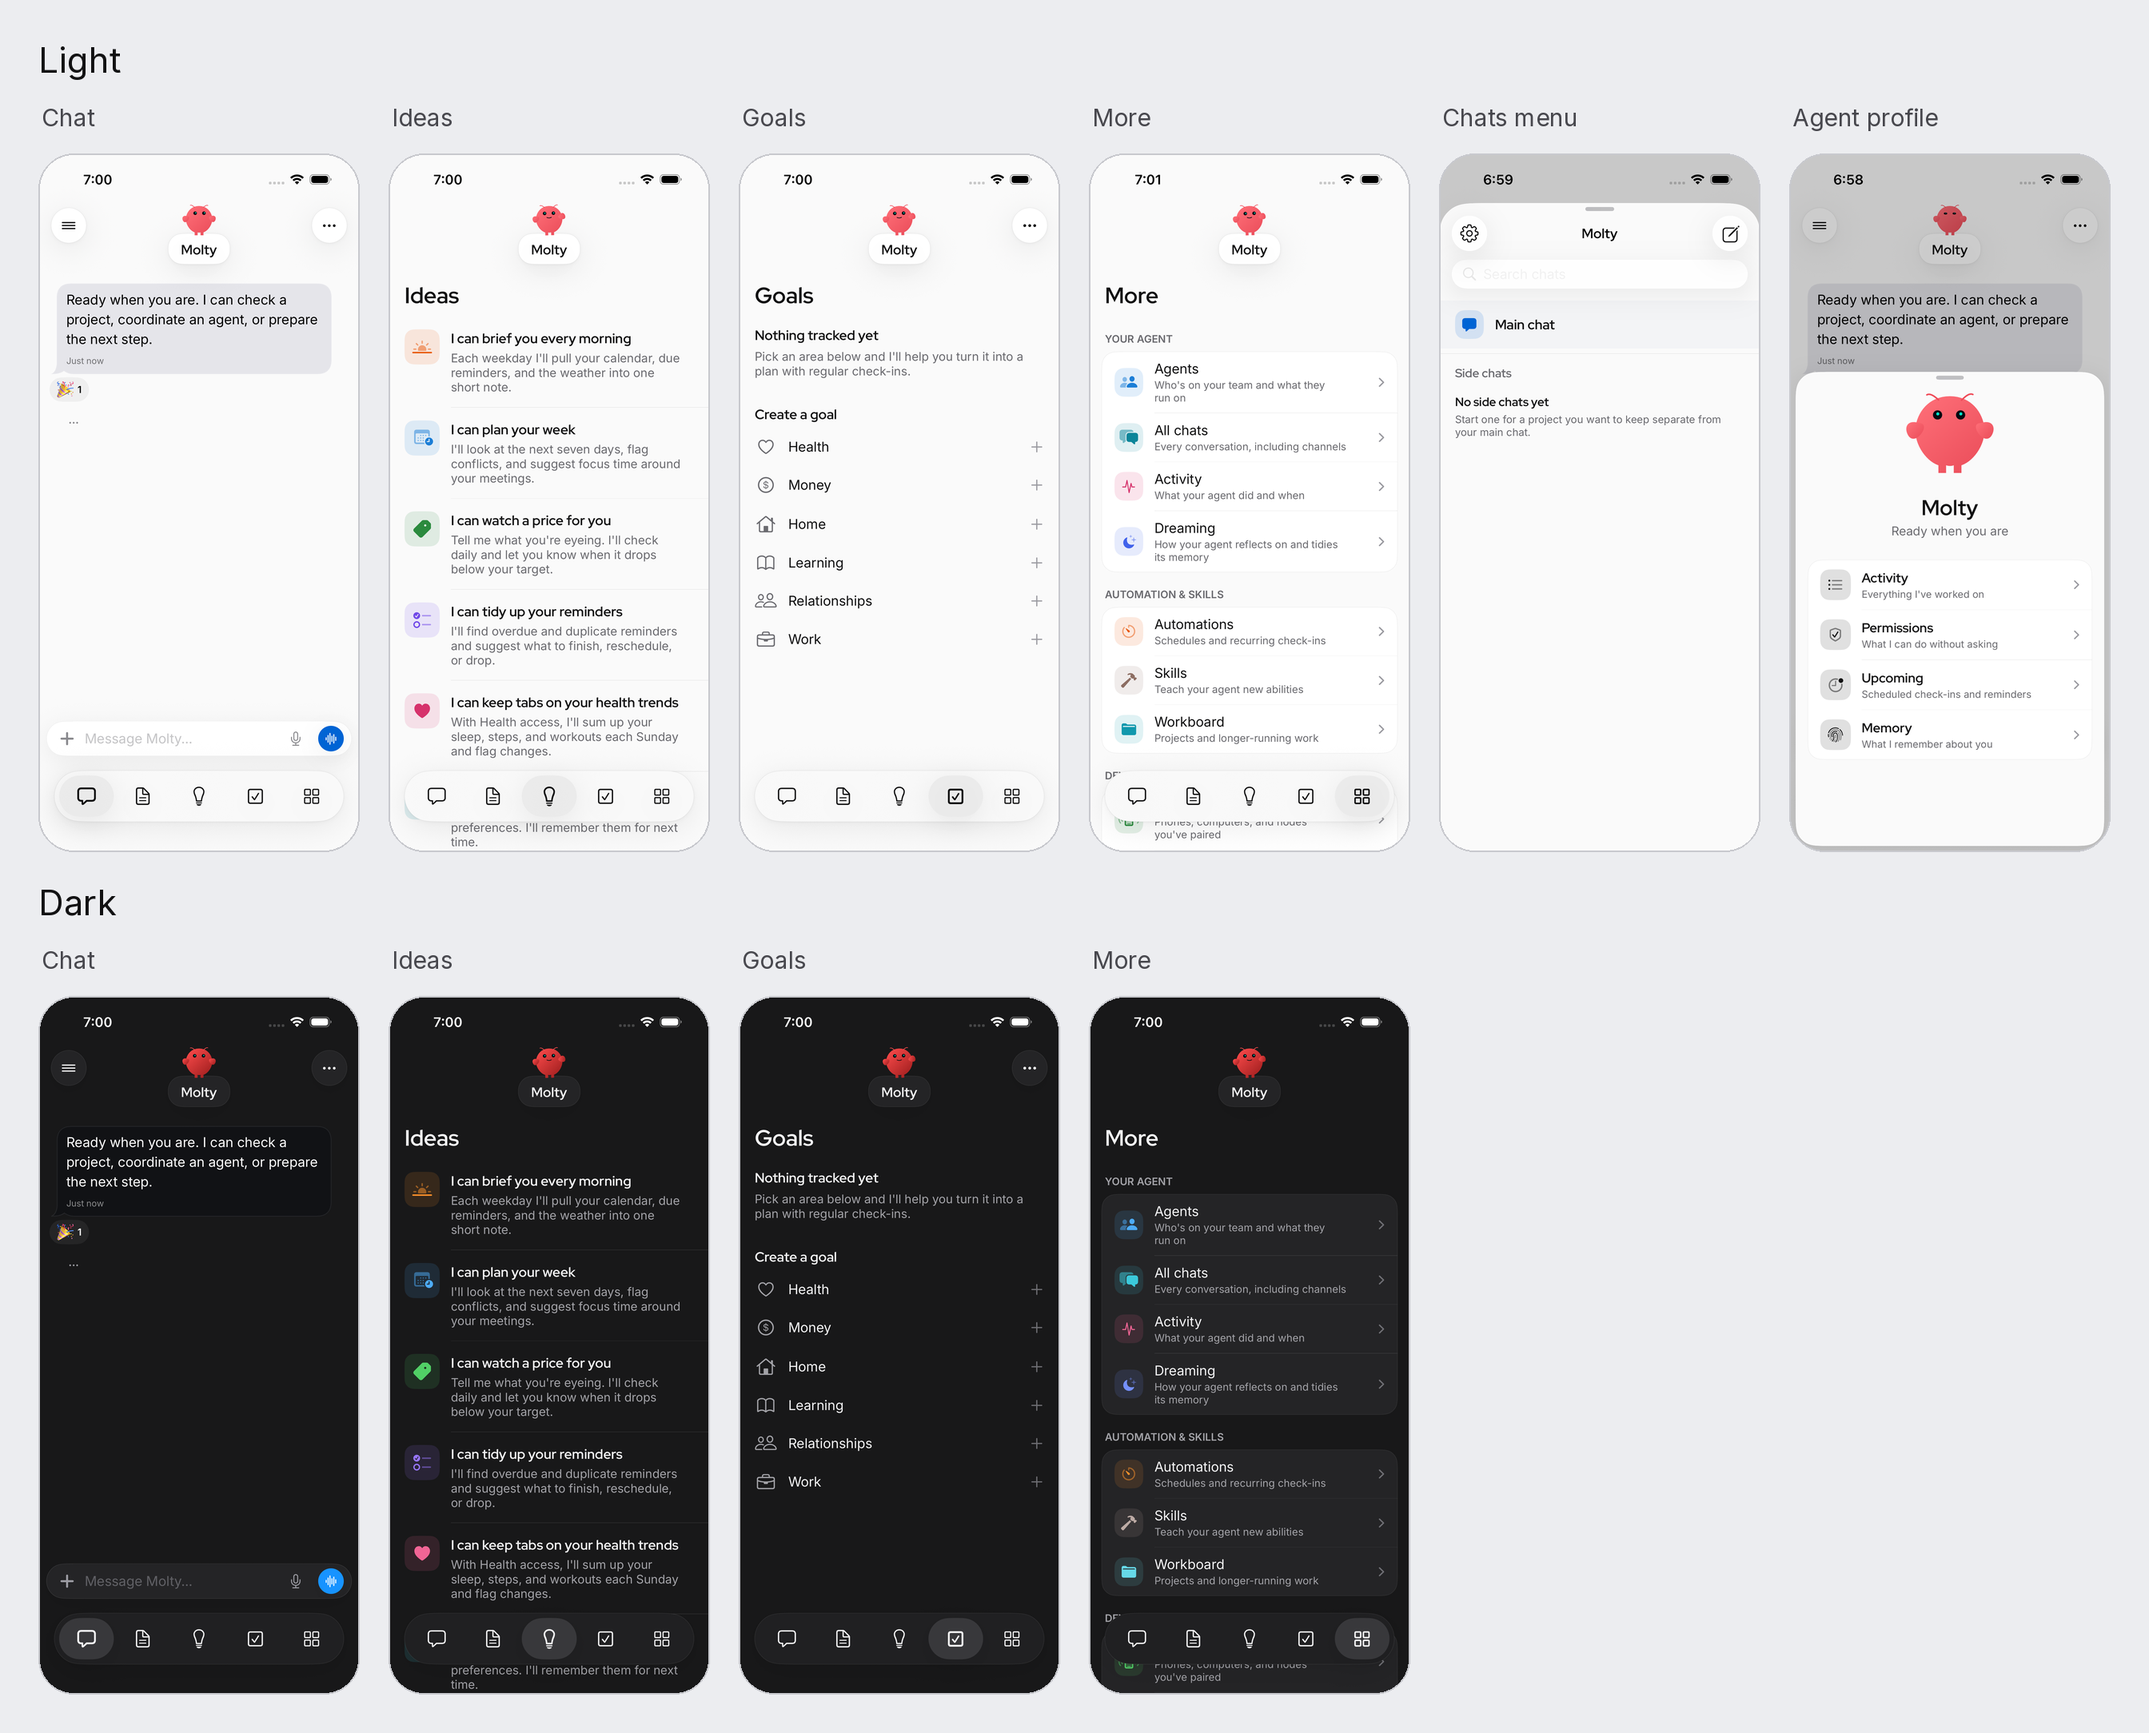
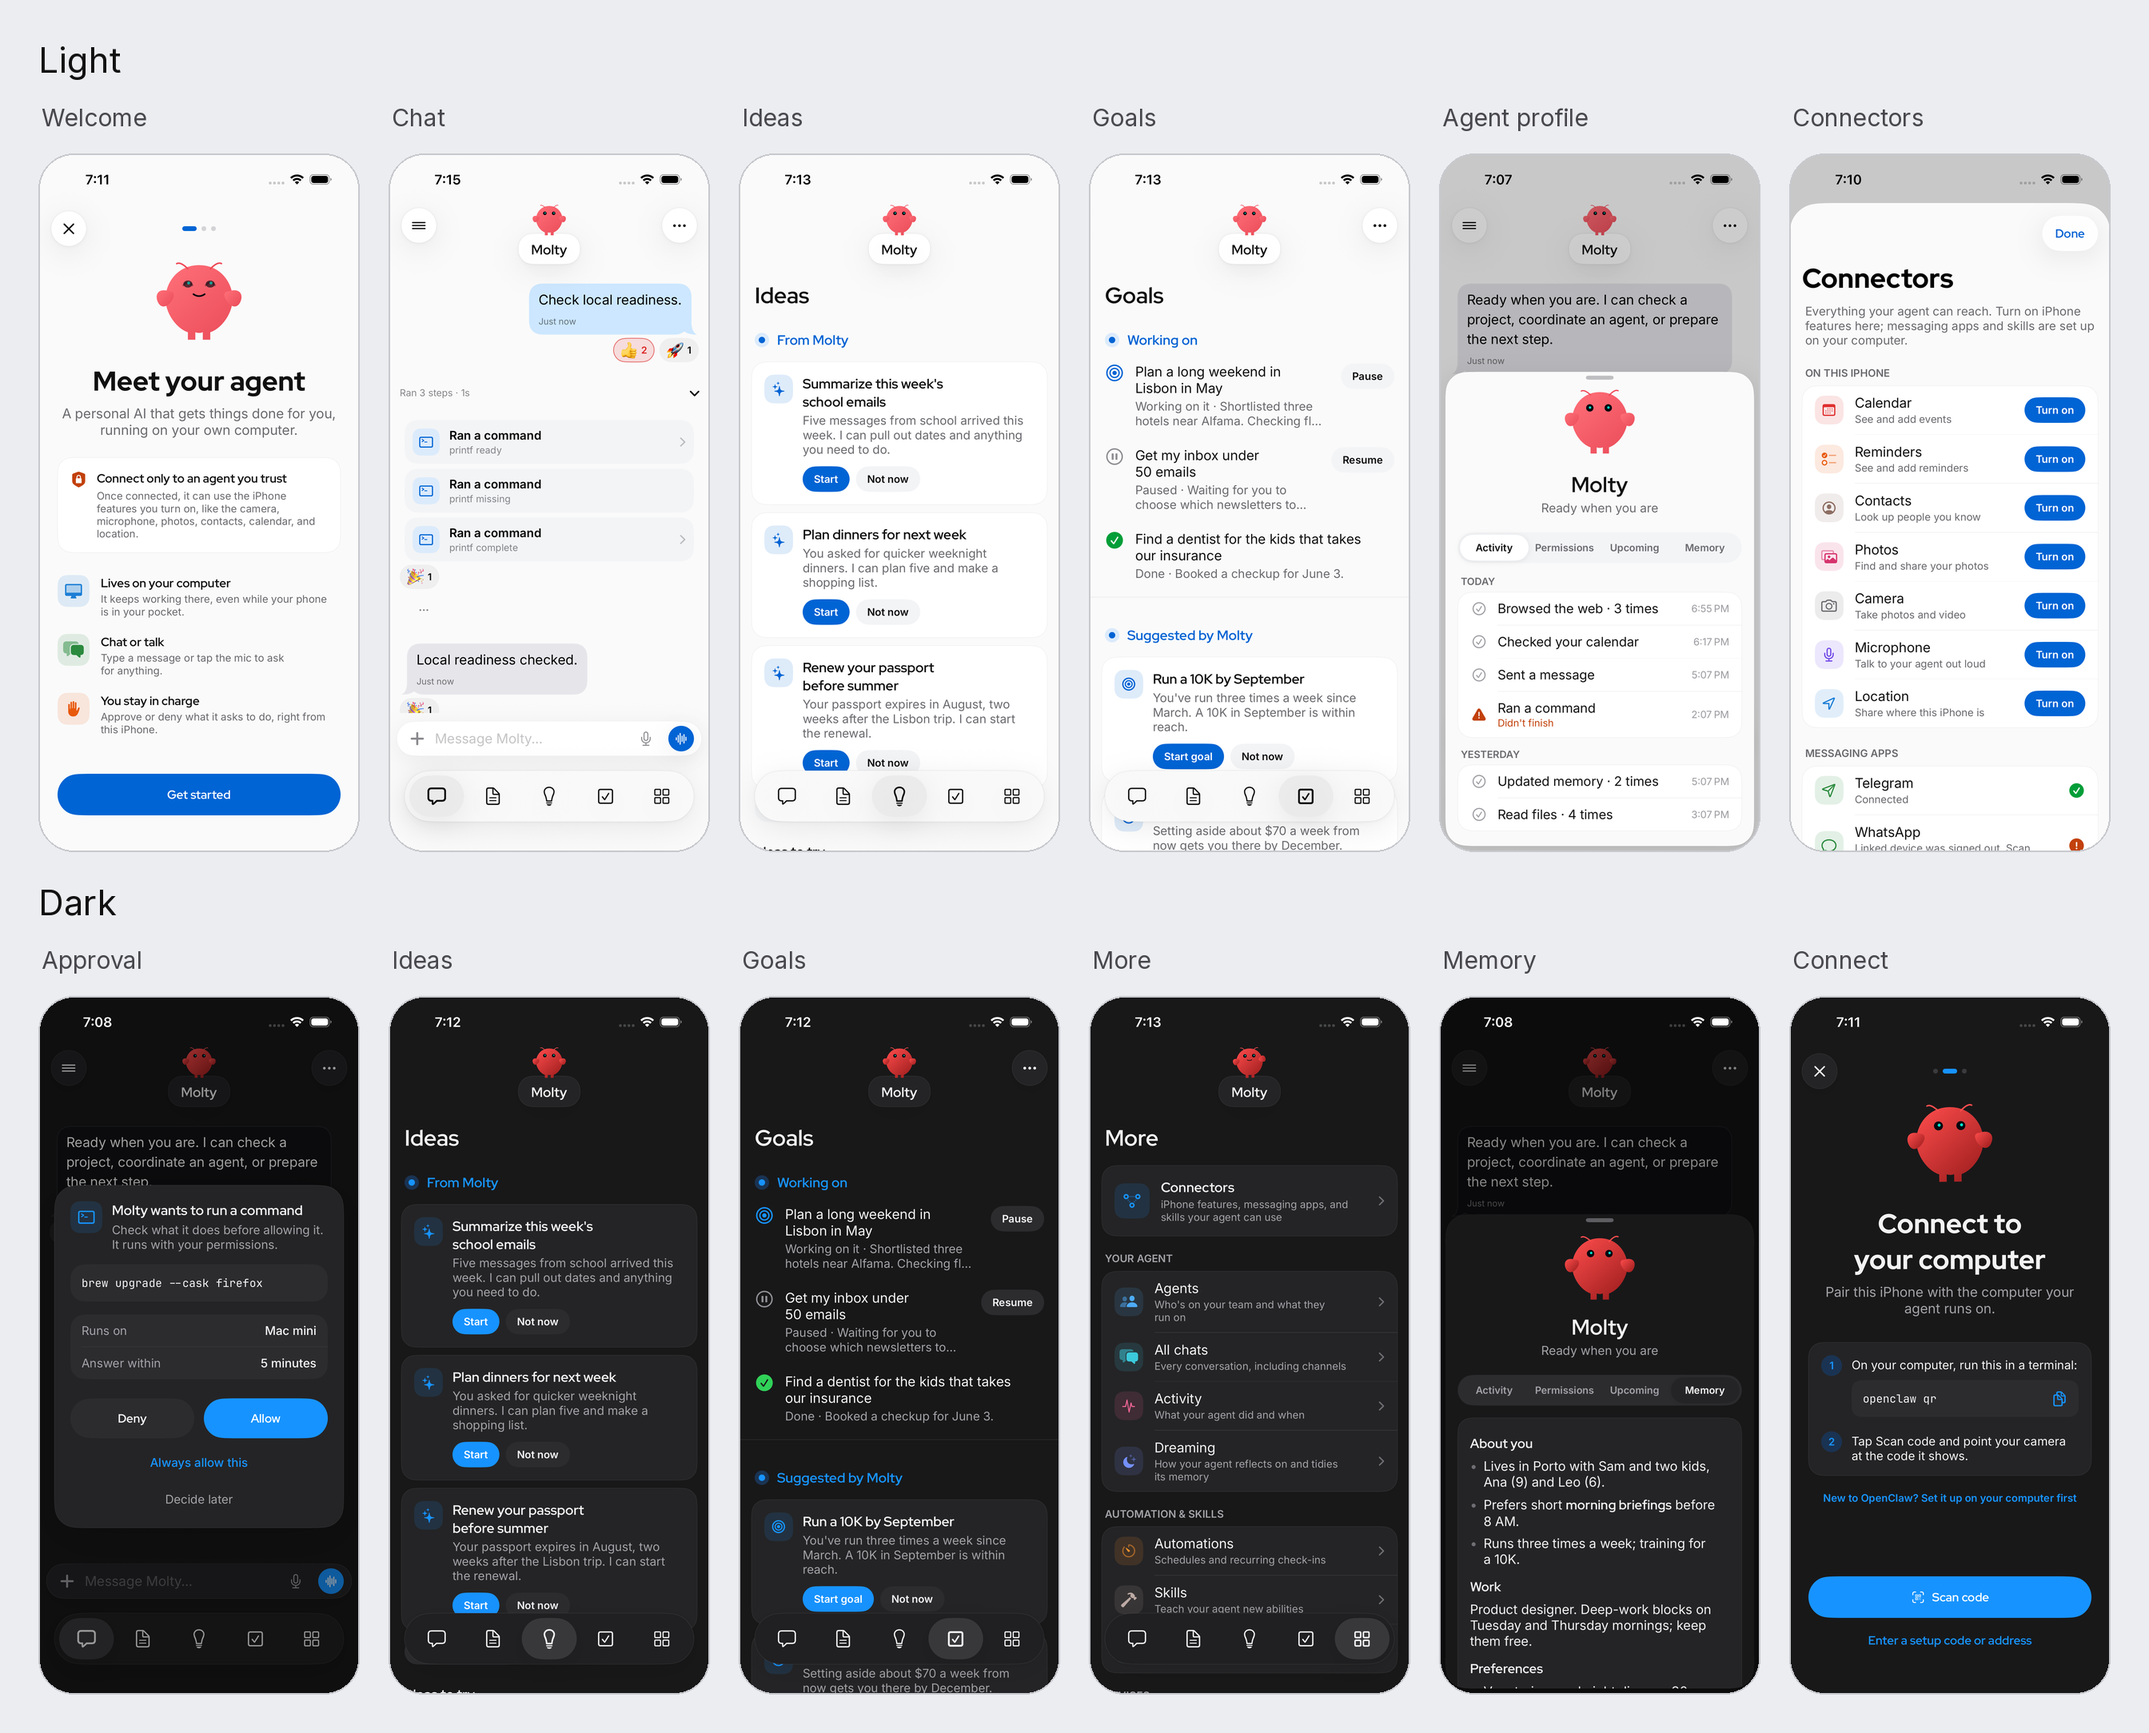
docs: refresh the simple-layout overview with the new screens
Shows the first run, plain-language tool cards, the approval card, agent
proposals in Ideas and Goals, Connectors, and the agent profile tabs.

diff --git a/.github/README.md b/.github/README.md
@@ -1,6 +1,6 @@
 # OpenClaw for iPhone, simple layout
 
-![The simple layout in light and dark mode: Chat, Ideas, Goals, More, the chats menu, and the agent profile](/.github/assets/simple-ui-overview.png)
+![The simple layout in light and dark mode: the first-run welcome and pairing screens, chat with plain-language tool cards, the approval card, Ideas and Goals with the agent's proposals and goals in progress, More, the agent profile's Activity and Memory tabs, and Connectors](/.github/assets/simple-ui-overview.png)
 
 An unofficial fork of [OpenClaw](https://github.com/openclaw/openclaw)'s iPhone app
 with a simpler, friendlier layout. You get one main chat with your agent, five
